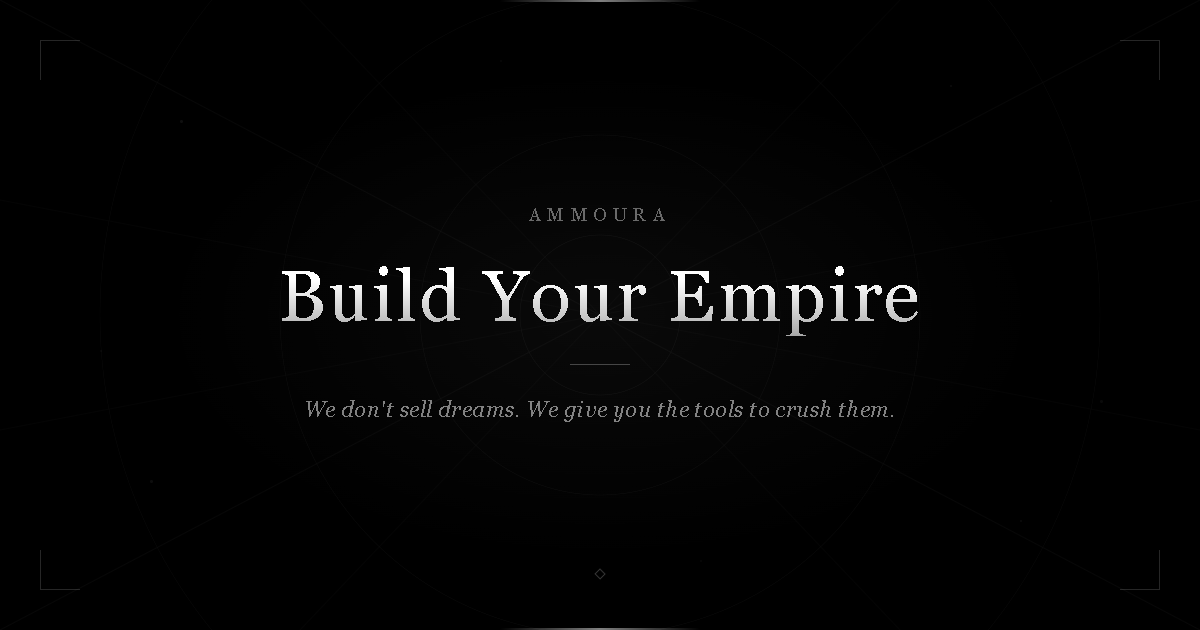
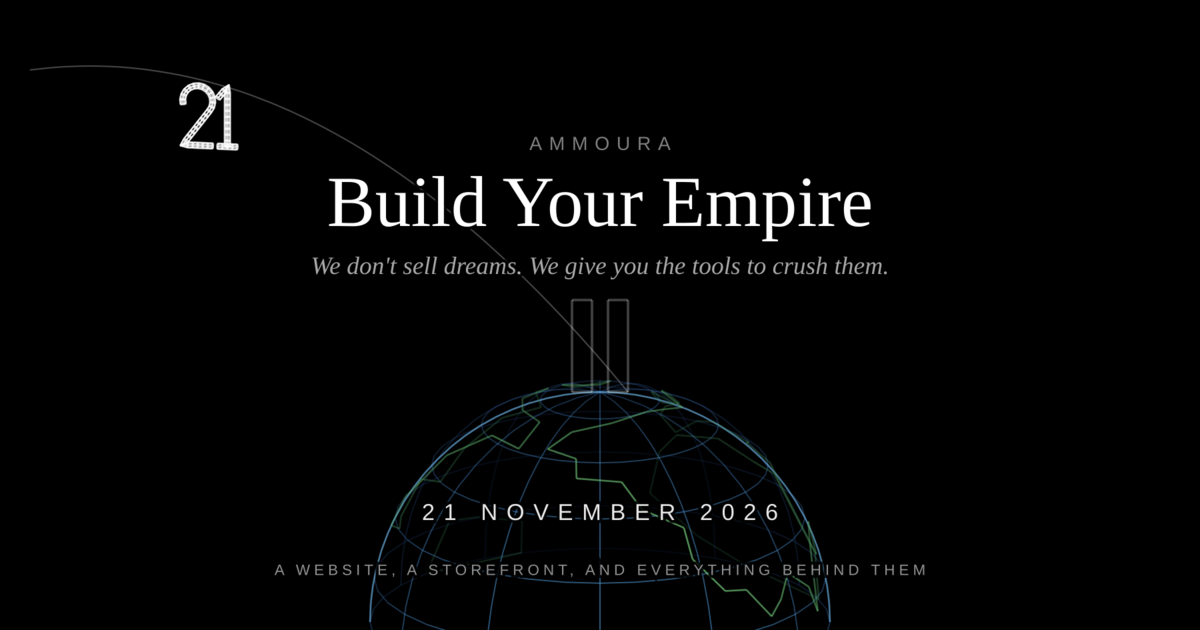
Regenerate the social card from the hero itself
The card was from August: typography on black, no planet, no date, no
sign of anything the page has grown since.

It is now generated rather than drawn. `scripts/build-og.mjs` lifts the
glyph builder and the globe block out of +page.svelte verbatim, evaluates
them against a shim that records line segments instead of painting them,
and emits those segments as SVG before ImageMagick turns it into the PNG.
Nothing is redrawn, so the card cannot quietly disagree with the hero —
change the page, re-run the script, commit the result. The launch date
and the wording come from seo.js, which already owned both.

The layout keeps the text in the upper half and lets the planet fill the
lower one, cut by the bottom edge the way the page's is cut by the fold;
a whole sphere floating in the middle reads as clip art. First pass had
the towers growing up through the headline, which is what moved the apex
down.

OG_IMAGE_ALT now names the launch date, derived from LAUNCH_ISO through a
new LAUNCH_LABEL rather than written out again — a second copy of a date
is a drift waiting to happen. It formats in Arizona time, because the
date the countdown ends on is fixed and is not the reader's date.

Like build:brand in the *Space repo, this is deliberately not part of
`npm run build`: it needs ImageMagick, and it should run when the artwork
or the date changes, not on every deploy.

Claude-Session: https://claude.ai/code/session_01W7eh9WZTBhoRVE2GweLrz3

diff --git a/src/lib/seo.js b/src/lib/seo.js
@@ -86,5 +86,20 @@ export const CAPABILITIES = [
 export const OG_IMAGE_PATH = '/og.png';
 export const OG_IMAGE_WIDTH = 1200;
 export const OG_IMAGE_HEIGHT = 630;
-export const OG_IMAGE_ALT = 'Ammoura — build your empire';
+/**
+ * Launch day as words, in the launch's own timezone.
+ *
+ * Arizona rather than the reader's zone: the card and the alt text should name
+ * the date the countdown actually ends on, which is fixed, not the date it is
+ * where the reader happens to be sitting. Derived rather than written out so it
+ * cannot drift from LAUNCH_ISO the way a second copy would.
+ */
+export const LAUNCH_LABEL = new Intl.DateTimeFormat('en-GB', {
+	day: 'numeric',
+	month: 'long',
+	year: 'numeric',
+	timeZone: 'America/Phoenix'
+}).format(new Date(LAUNCH_ISO));
+
+export const OG_IMAGE_ALT = `Ammoura — Build Your Empire. Launching ${LAUNCH_LABEL}.`;
 export const OG_IMAGE_TYPE = 'image/png';
